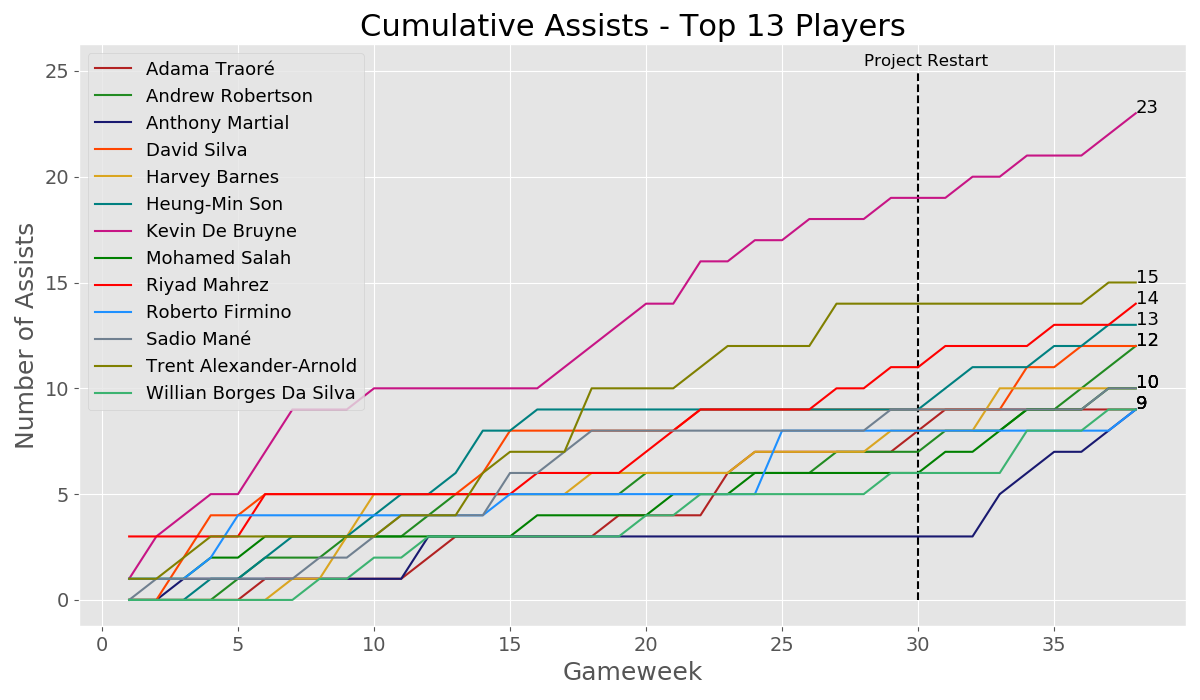
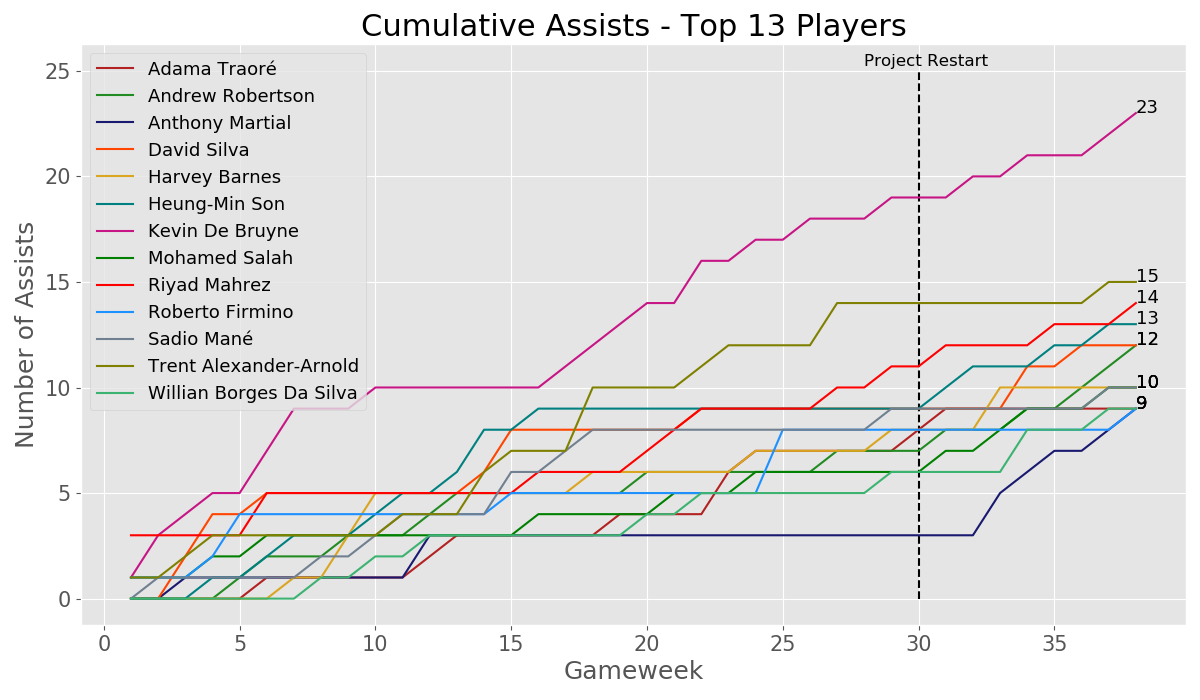
adjust font size

diff --git a/README.md b/README.md
@@ -36,24 +36,32 @@ And a look at the cumulative goals scored for the top six teams as well as the t
 
 ### Top Scorers
 
-Goals scored is commonly the first statistic to look at in terms of performance, so I had a look at the top 12 goal scorers and their production throughout the season and how they fared pre and post-restart. Jamie Vardy won the Golden Boot for most goals scored with 23 goals.
+Goals scored is commonly the first statistic to look at in terms of performance, so I had a look at the top 12 goal scorers and their production throughout the season and how they fared pre and post-restart. **Jamie Vardy** won the Golden Boot for most goals scored with 23 goals.
 
 ![](images/goals_scored_top12.png)
 
 ### Top Assists
 
+According to my data [source](https://github.com/vaastav/Fantasy-Premier-League), Kevin De Bruyne ran away with the most assists with 23 total. Next up was Trent Alexander-Arnold, with 15, which broke his own record for a full-back in a single season.
+
 ![](images/assists_top13.png)
 
-## Pre/Post-Restart Analysis
+# Analysis
+
+## Teams
 
 I wanted to have a look at how teams were faring both before and after the restart. The plot above shows this. As you can see, Liverpool, the eventual Champions, had a pretty dramatic dip in performance after the restart, but this didn't stop them as they clinched the title shortly after the restart. Leicester, Crystal Palace and Norwich also had extreme declines in performance, leading to Norwich's relegation. Some notable improvements can be seen with Manchester United, jumping from ~1.5 points per game, to just beneath 2.5 points per game. Southampton had an even larger performance gain, increasing their average by over .8 points per game. However, the only statistically significant changes were for Liverpool, surprisingly, and Crystal Palace with an alpha set to .05. With more lenience in the alpha value, other teams showed some significant performance changes which can be seen above.
 
 ![](images/avgppg_before_after.png)
 
-For a significance level of .05, both Liverpool and Crystal Palace's points per game average change was statistically significant with a p-value of: 0.022 and 0.013, respectively. And for a significance level of .1, Manchester United and Norwich's points per game average change was statistically significant with a p-value of: 0.062 and .082, respectively.
+For a significance level of .05, both **Liverpool** and **Crystal Palace's** points per game average change was statistically significant with a p-value of: 0.022 and 0.013, respectively. And for a significance level of .1, **Manchester United** and **Norwich's** points per game average change was statistically significant with a p-value of: 0.062 and .082, respectively.
 
-## Future Work
+## Players
 
-I plan to also perform similar tests to the amount of goals scored before and after the restart. Additionally, I want to take a look at individual players and their performances and see if there was any significant change there.
+After performing a similar t-test to the one above, no player in the top 12 goal scorers for the season had any significant dip or improvement after the restart.
+
+# Future Work
+
+There is so much analysis that could be done for this tricky season, among both individual player performances as well as teams overall. I'm almost overwhelmed with the magnitude of possibility this strange year has provided for data science. But most importantly, we want things to return to a safe and relatively normally experience for all. 
 
 
